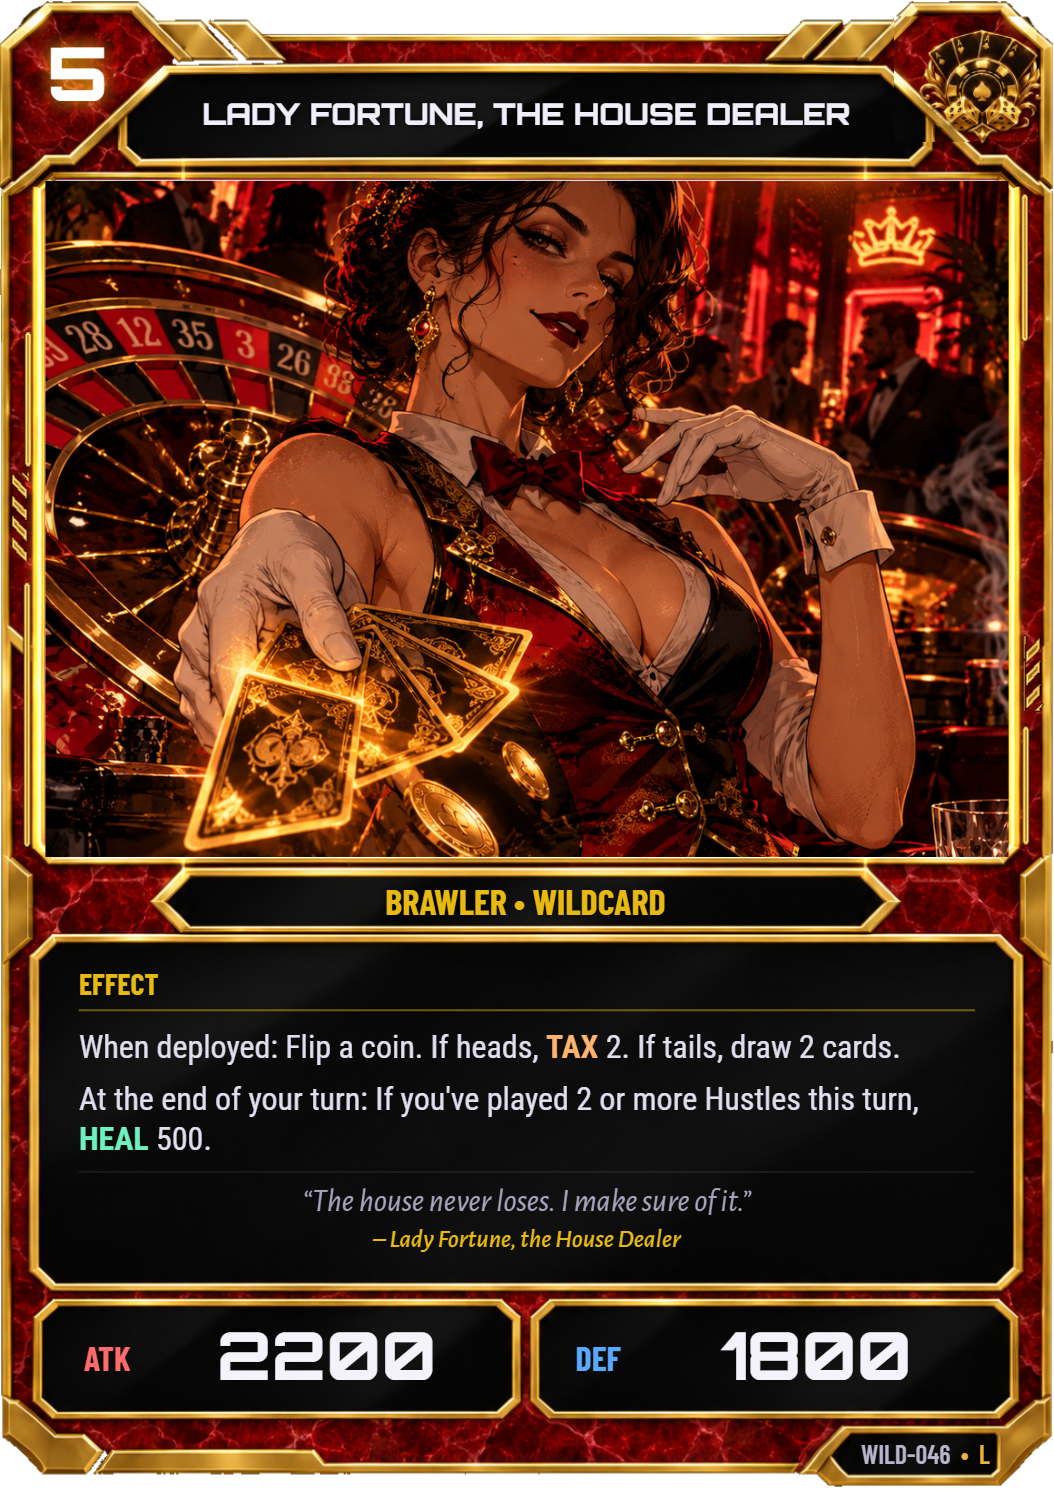
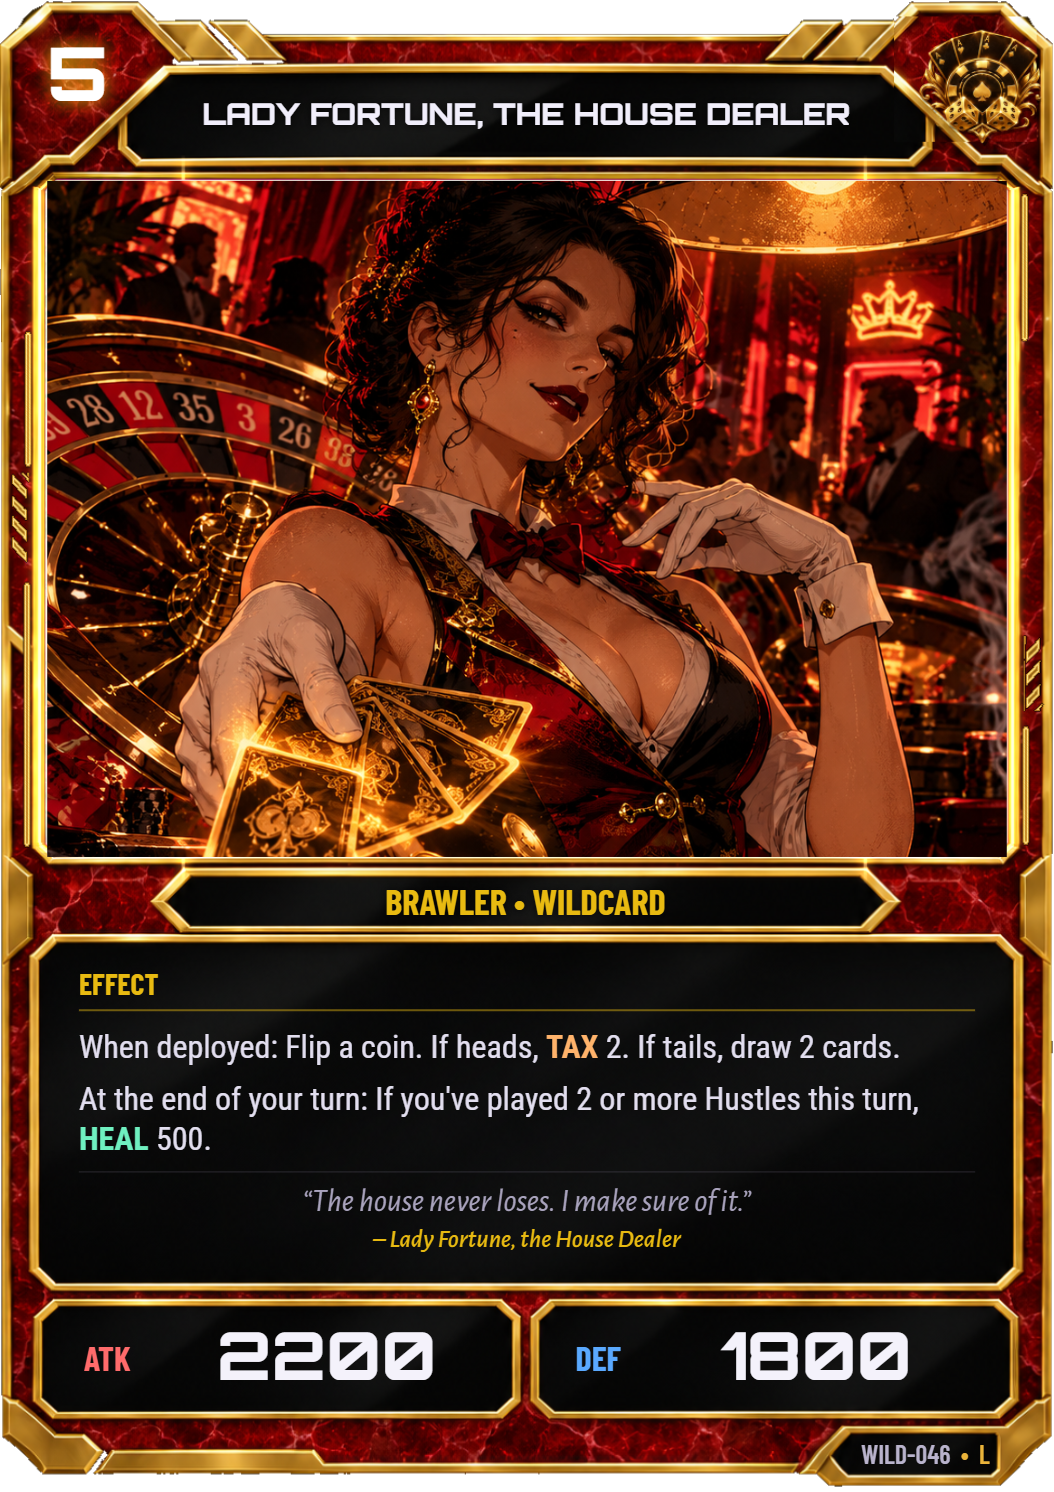
0.9.87: Choose Your Clan text fits its panels; Wildcard starter retuned; gifted profile pictures
- clan_select.gd: blurb and card count laid out inside each tile; long blurbs shrink to fit
  (UI.label sizes text with LabelSettings, so _fit changes that)
- Wildcard starter: 39% -> 49% against the other starters (all four now 49-51%)
- player_avatar_gifts (db/migrate_avatar_gifts.sql) + scripts/give_avatar.js: a profile picture
  given to one player counts as unlocked
- progression.test: pack collection totals leave out boss prizes (CI had failed since 0.9.85)
- Card Forge: DS-001 DEF 4500, Lady Fortune art

diff --git a/shared/clans.js b/shared/clans.js
@@ -70,25 +70,29 @@ const CURATED = {
             ['card_mili_022', 3], ['card_mili_023', 3], ['card_mili_025', 3], ['card_mili_026', 3],
         ],
     },
-    // Every Wildcard base card but Rex (he's for packs): 30 characters, 10 Hustles/Ambushes.
+    // 30 characters, 10 Hustles/Ambushes; Rex is for packs. Retuned 2026-10-27 (tools/deck_test.mjs, starter vs
+    // starter): the old list won 39% overall (32% against Underworld). Out: Mickey Dukes, Garrison, Hot Streak, a
+    // Call the Bluff; in: a third Lucky Lou, a second House Always Wins and Ace Up The Sleeve, Hugo Brandt, Viktor.
+    // Now 56% Militia / 46% Nebula / 47% Underworld, 49% overall.
     wildcard: {
         blurb: 'Play the odds: coin flips and dice for big payoffs, DOUBLE OR NOTHING bets, and LOADED DICE to tilt the odds your way.',
         leader: 'card_wild_001',   // Vincent Vale
         deck: [
-            // Strivers: Lucky Lou, Dice Delgado, Penny Harlow, Mickey Dukes, Ruby Reyes
-            ['card_wild_002', 2], ['card_wild_021', 2], ['card_wild_024', 2], ['card_wild_027', 2], ['card_wild_030', 2],
-            // Characters: Sally, Jennifer, Raymond, Trent, Jackie, Roberto, Catherine, Marchetti, Otis; Heavies Baxter, Garrison
+            // Strivers: Lucky Lou, Dice Delgado, Penny Harlow, Ruby Reyes
+            ['card_wild_002', 3], ['card_wild_021', 2], ['card_wild_024', 2], ['card_wild_030', 2],
+            // Characters: Sally, Jennifer, Raymond, Trent, Jackie, Roberto, Catherine, Marchetti, Otis, Viktor;
+            // Heavies Baxter, Hugo Brandt
             ['card_wild_010', 2], ['card_wild_006', 2], ['card_wild_008', 2], ['card_wild_011', 2], ['card_wild_033', 2],
-            ['card_wild_005', 2], ['card_wild_009', 2], ['card_wild_034', 2], ['card_wild_035', 2],
-            ['card_wild_007', 1], ['card_wild_012', 1],
-            // Hustles: Double Down, Loaded Dice, Hot Streak, All In, The House Always Wins;
+            ['card_wild_005', 2], ['card_wild_009', 2], ['card_wild_034', 2], ['card_wild_035', 2], ['card_wild_045', 1],
+            ['card_wild_007', 1], ['card_wild_041', 1],
+            // Hustles: Double Down, Loaded Dice, All In, The House Always Wins;
             // Ambushes: Ace Up The Sleeve, Snake Eyes, Call the Bluff
-            ['card_wild_014', 1], ['card_wild_018', 2], ['card_wild_036', 1], ['card_wild_015', 1], ['card_wild_017', 1],
-            ['card_wild_016', 1], ['card_wild_019', 1], ['card_wild_037', 2],
+            ['card_wild_014', 1], ['card_wild_018', 2], ['card_wild_015', 1], ['card_wild_017', 2],
+            ['card_wild_016', 2], ['card_wild_019', 1], ['card_wild_037', 1],
         ],
         hideout: [
             ['card_wild_003', 3], ['card_wild_004', 3], ['card_wild_022', 3], ['card_wild_023', 3],
-            ['card_wild_025', 3], ['card_wild_026', 3], ['card_wild_028', 3], ['card_wild_029', 3],
+            ['card_wild_025', 3], ['card_wild_026', 3],
             ['card_wild_031', 3], ['card_wild_032', 3],
         ],
     },

diff --git a/backend/scripts/give_avatar.js b/backend/scripts/give_avatar.js
@@ -1,0 +1,59 @@
+'use strict';
+// Gives one player a profile picture they couldn't unlock otherwise (db/migrate_avatar_gifts.sql), e.g.
+// the art of a card that was based on them, and mails them about it. Their current picture stays.
+//
+//   node backend/scripts/give_avatar.js <username> <card id> ["mail text"]            shows what would happen
+//   node backend/scripts/give_avatar.js <username> <card id> ["mail text"] --apply    does it
+require('dotenv').config({ path: require('path').join(__dirname, '../.env') });
+const { pool } = require('../db/pool');
+
+const apply = process.argv.includes('--apply');
+const [username, cardId, text] = process.argv.slice(2).filter(a => !a.startsWith('--'));
+
+(async () => {
+    try {
+        const { CARD_CATALOG } = await import('../../shared/cards.js');
+        const card = CARD_CATALOG[cardId];
+        if (!username || !card) {
+            console.error('usage: node backend/scripts/give_avatar.js <username> <card id, e.g. card_nebu_042> ["mail text"] [--apply]');
+            process.exitCode = 1;
+            return;
+        }
+        const { rows: [p] } = await pool.query('SELECT id, username FROM players WHERE LOWER(username) = LOWER($1)', [username]);
+        if (!p) {
+            console.error(`No player called ${username}.`);
+            process.exitCode = 1;
+            return;
+        }
+        const avatar = `card:${cardId}`;
+        const body = text || `You've been given a special profile picture: ${card.name}. ` +
+            'Wear it from Achievements → Your Look.';
+        console.log(`${p.username} gets the ${card.name} profile picture (${avatar}), with this mail:\n  ${body}`);
+        if (!apply) {
+            console.log('\nNothing changed. Run again with --apply to do it.');
+            return;
+        }
+        const client = await pool.connect();
+        try {
+            await client.query('BEGIN');
+            const { rowCount } = await client.query(
+                'INSERT INTO player_avatar_gifts (player_id, avatar) VALUES ($1, $2) ON CONFLICT DO NOTHING', [p.id, avatar]);
+            if (rowCount) {
+                await client.query('INSERT INTO player_mail (player_id, sender, subject, body) VALUES ($1, $2, $3, $4)',
+                    [p.id, 'AlleyWay Brawlers', 'A profile picture, just for you', body]);
+            }
+            await client.query('COMMIT');
+            console.log(rowCount ? '\nDone.' : '\nThey already had it: nothing changed.');
+        } catch (err) {
+            await client.query('ROLLBACK').catch(() => {});
+            throw err;
+        } finally {
+            client.release();
+        }
+    } catch (err) {
+        console.error('Failed:', err.message);
+        process.exitCode = 1;
+    } finally {
+        await pool.end();
+    }
+})();

diff --git a/backend/economy/achievements.js b/backend/economy/achievements.js
@@ -219,8 +219,11 @@ async function cosmetics(playerId, defs, unlocked) {
     for (let n = 5; n <= (lv?.level || 1); n += 5) levelAvatars.push(`level:${n}`);
     const { freeAvatars } = await import('../../shared/clans.js');
     const ms = await mastery.cosmetics(playerId);   // clan mastery pictures and titles
+    // Pictures given to this player by hand (scripts/give_avatar.js)
+    const { rows: gifts } = await pool.query('SELECT avatar FROM player_avatar_gifts WHERE player_id = $1 ORDER BY granted_at', [playerId]);
     return {
-        avatars: [...new Set([...freeAvatars(), ...levelAvatars, ...got.map(a => a.reward.avatar).filter(Boolean), ...ms.avatars])],
+        avatars: [...new Set([...freeAvatars(), ...levelAvatars, ...got.map(a => a.reward.avatar).filter(Boolean), ...ms.avatars,
+            ...gifts.map(g => g.avatar)])],
         titles: [...got.filter(a => a.reward.title).map(a => ({ id: a.id, text: a.reward.title })), ...ms.titles],
         backs: got.map(a => a.reward.back).filter(Boolean),
     };

diff --git a/backend/db/migrate.js b/backend/db/migrate.js
@@ -9,7 +9,7 @@
 const fs = require('fs');
 const path = require('path');
 
-const FILES = ['migrate_progression.sql', 'migrate_retire_classic_back.sql', 'migrate_level_rewards.sql', 'migrate_card_avatars.sql', 'migrate_mastery_challenge.sql', 'migrate_last_played.sql', 'migrate_daily.sql', 'migrate_deck_hideout.sql', 'migrate_account_deletion.sql', 'migrate_turf.sql', 'migrate_steam.sql'];
+const FILES = ['migrate_progression.sql', 'migrate_retire_classic_back.sql', 'migrate_level_rewards.sql', 'migrate_card_avatars.sql', 'migrate_mastery_challenge.sql', 'migrate_last_played.sql', 'migrate_daily.sql', 'migrate_deck_hideout.sql', 'migrate_account_deletion.sql', 'migrate_turf.sql', 'migrate_steam.sql', 'migrate_avatar_gifts.sql'];
 
 async function migrate(pool) {
     for (const f of FILES) {

diff --git a/shared/cards_forge.js b/shared/cards_forge.js
@@ -4507,7 +4507,7 @@ export const FORGE_CARDS = {
         "clanName": "Nebula",
         "clanColor": "#9b7bff",
         "attack": 4500,
-        "defense": 5000,
+        "defense": 4500,
         "level": 1,
         "subtype": "heavy",
         "promotesTo": null
